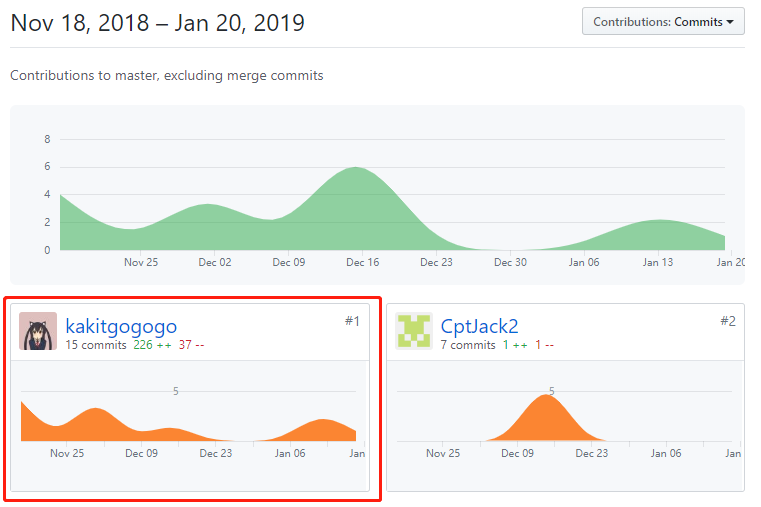
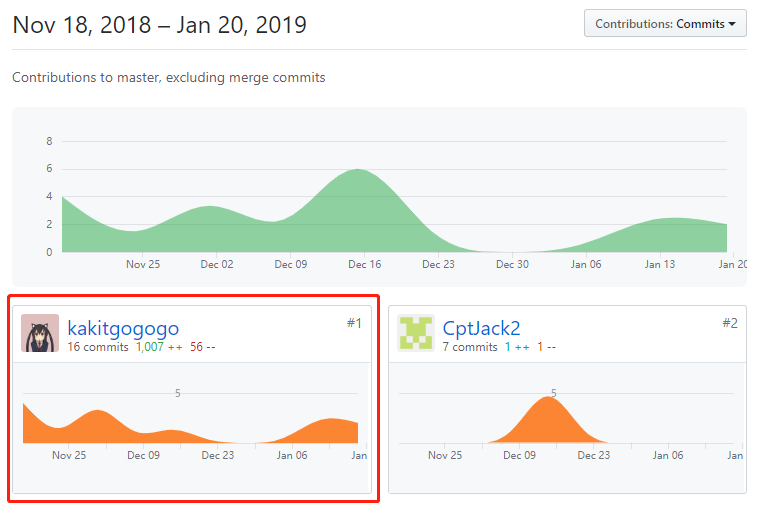
final report

diff --git a/techreport/git.md b/techreport/git.md
@@ -1,0 +1,88 @@
+# Git使用总结
+
+## 1.安装
+
+**Linux:** `sudo apt isntall git`
+
+**Windows:** 浏览器打开[git for windows](https://git-scm.com/download/win)，按照系统位数下载对应安装程序，安装即可。
+
+**MacOS:** 浏览器打开[git for mac](https://git-scm.com/download/mac)，下载安装程序，安装即可。
+
+## 2.创建新仓库
+
+命令行进入目标文件夹，执行`git init`以创建新的 git 仓库。
+
+## 3.工作流
+
+本地仓库由 git 维护的三部分组成。第一部分是当前工作目录，它持有实际文件；第二个是缓存区（Index），它是个缓存区域，临时保存改动；最后是HEAD，指向最近一次提交后的结果。
+
+## 4.添加与提交
+
+可以使用如下命令将工作目录的改动添加到缓存区：
+
+```
+git add <filename>
+git add *
+```
+
+使用如下命令将缓存区以实际提交改动：
+
+```
+git commit -m "commit info"
+```
+
+## 5.推送改动到远端仓库
+
+使用如下命令添加远端仓库：
+
+```
+git remote add origin <server>
+```
+
+此时可以将改动推送到所添加的服务器上：
+
+```
+git push origin master
+```
+
+## 6.分支管理
+
+![](/resources/git_branch.png)
+
++ 查看分支列表：
+
+```
+git branch
+```
+
++ 新建分支：
+
+```
+git branch <branchname>
+```
+
++ 切换分支：
+
+```
+git checkout <branchname>
+```
+
++ 新建并切换分支：
+
+```
+git branch -b <branchname>
+```
+
++ 合并分支（如合并到master）：
+
+```
+git checkout master
+git merge <branchname>
+```
+
++ 删除分支
+
+```
+git branch -d <branchname>
+```
+

diff --git a/index.md b/index.md
@@ -24,12 +24,8 @@
     - 8.3 [架构设计、详细设计（BCE方法）到应用程序框架映射指南](08-03-relationship-between-ECB-framework-directory-design-logic-archit)
     - 8.4 [部署说明](08-04-deployment-doc)
 * 9、[成品展示](09-display)
-* X1 meet_recording
-    - [Inception meeting (2018/9/22)](X1-inception-meeting)
-    - [Iteration 1 meeting (2018/10/10)](X1-iteration1-meeting)
-    - [Iteration 2 meeting (2018/11/15)](X1-iteration2-meeting)
-    - [Iteration 3 meeting (2018/12/20)](X1-iteration3-meeting)
+* [X1 meet_recording](X1-inception-meeting)
 * [X2 Tech/Work Report](X2-techwork-report)
+    - [18214691-Git使用总结](techreport/git)
 * [X3 Final Report](X3-final-report)
-    - 学号-title
-    - 小组分工与贡献率说明
+    - [18214691-前后端开发](finalreport/18214691)

diff --git a/X1-inception-meeting.md b/X1-inception-meeting.md
@@ -1,0 +1,20 @@
+## 项目启动及第一次会议纪要
+2018.9.10 10:00-11:00
+- 会议目标：
+    1 对电影购票系统提出简要功能概述
+    2 简要讨论前后端功能点分配
+    3 讨论目标用户群体，及其需求
+
+
+## 第二次会议纪要
+2018.10.7
+- 会议目标：
+1. 讨论前端界面设计改进
+2. 讨论后端数据库选型
+
+
+## 第三次会议纪要
+2018.12.17
+- 会议目标：
+1. 仍需改进或优化的功能点
+2. 讨论前后端交互方式是否合理

diff --git a/08-04-deployment-doc.md b/08-04-deployment-doc.md
@@ -1,0 +1,3 @@
+# Deployment
+
+后端使用Django框架进行开发，部署使用Nginx作为web服务器以及使用gunicorn作为WSGI容器进行部署。

diff --git a/X2-techwork-report.md b/X2-techwork-report.md
@@ -1,3 +1,3 @@
 # Techwork Report
 
-+ 18214691 - [Git学习心得](techreport/git)
++ 18214691 - [Git使用总结](techreport/git)

diff --git a/X3-final-report.md b/X3-final-report.md
@@ -1,0 +1,3 @@
+# Final Report
+
++ 18214691 - [Final Report](finalreport/18214691)
